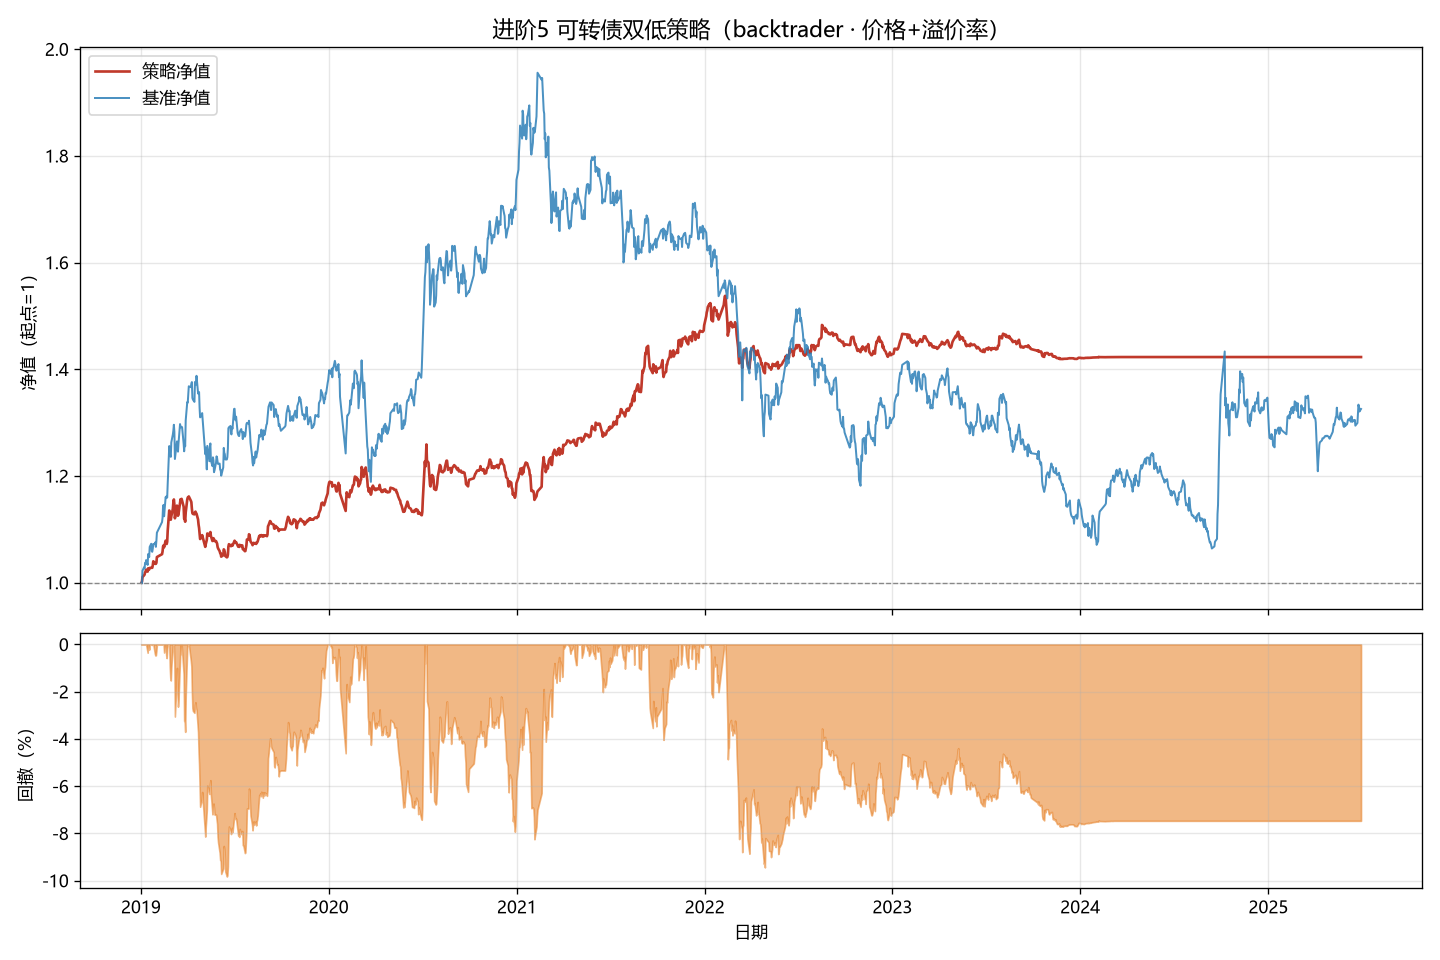
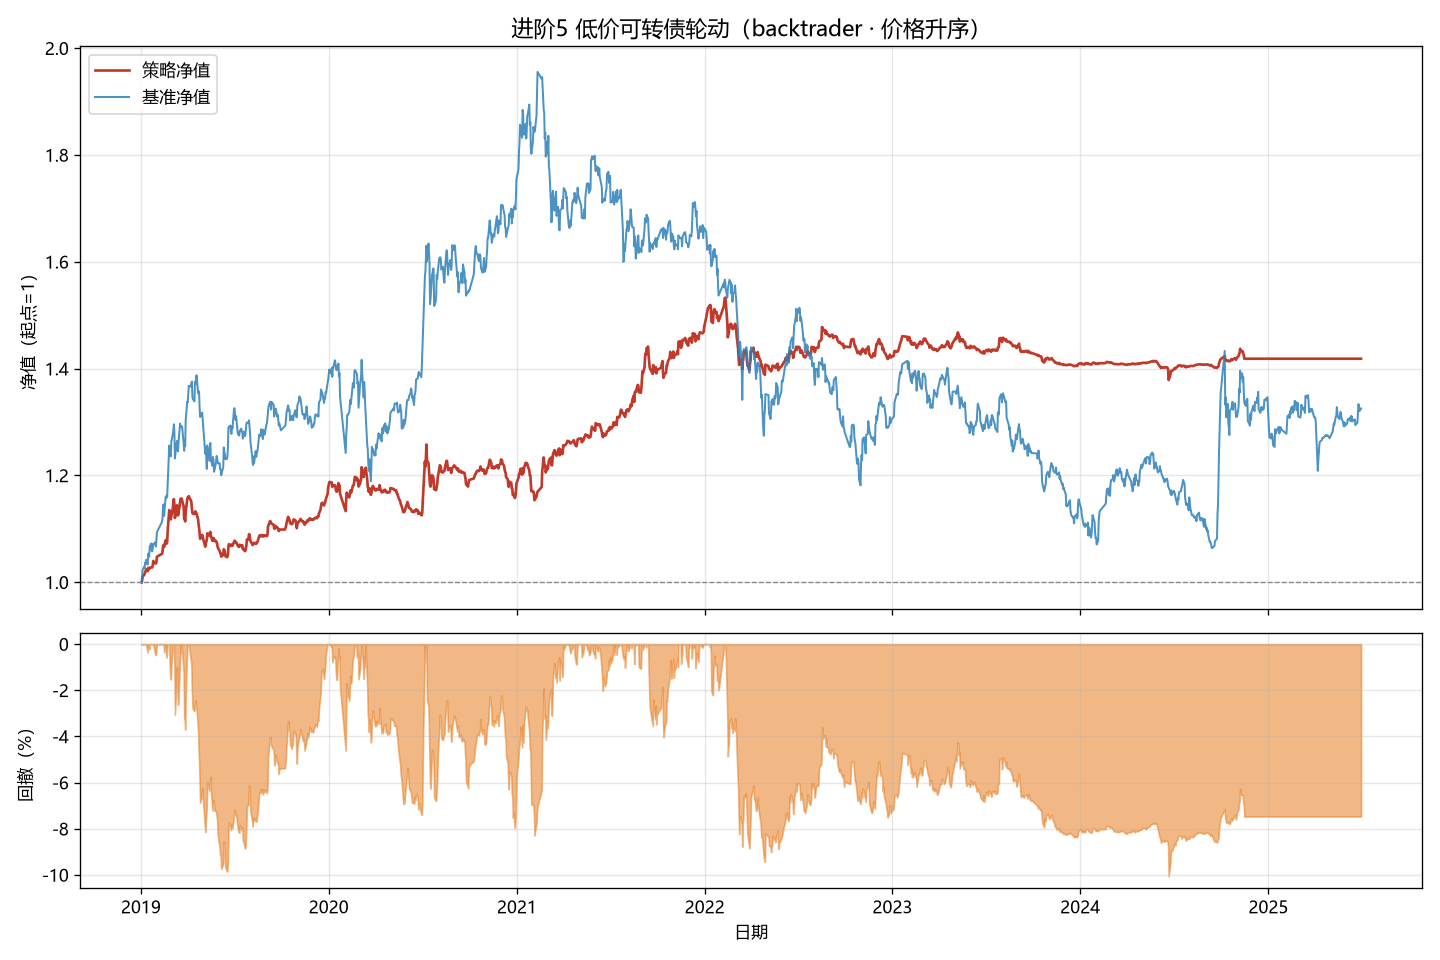
docs(4.1.1): bt_a05 按低价版重跑并同步实测结果
- results/logs/bt_a05_convertible_bond.log 与 results/bt_a05_result.png 更新为 v4.1.1 低价版重跑结果
  （累计 41.86% / 年化 5.76% / 最大回撤 -10.07% / 夏普 0.77 / 成交 182 笔）
- README 实测绩效表 a05 行更新为实测值，并去掉「待重跑」标注；补充净值形态解读
- docs/backtrader/advanced/05_convertible_bond.md 第五节换成实测结果 + 怎么读
- CHANGELOG 记录重跑结果

diff --git a/README.md b/README.md
@@ -127,7 +127,7 @@ Quant_Lab/
 
 以下数据由 `python strategies/backtrader/...` **实际运行**得到（初始资金 100 万，含佣金双向 0.03%、印花税仅卖出（**2023-08-28 前 0.1%、之后 0.05%**，v4.1.1 起按成交日切换）、滑点单边 0.02%），完整报告见 `results/logs/`，净值图见 `results/*.png`。
 
-> ⚠ v4.1.1 修改了部分策略口径（手续费按日期、调仓预算、a05 去掉未来函数），**下表数字是 v4.1.0 跑出的，尚未全部重跑**；其中 `bt_a05` 已明确失效。重跑请用 `python tools/run_all_backtrader.py`。
+> ⚠ v4.1.1 修改了部分策略口径（手续费按日期、调仓预算、`bt_a05` 去掉未来函数）。**`bt_a05` 已按新逻辑重跑（下表已更新为实测值）；其余策略仍是 v4.1.0 的数字，尚未重跑**——重跑请用 `python tools/run_all_backtrader.py`。
 
 | 策略 | 回测区间 | 累计收益 | 年化 | 最大回撤 | 夏普 | 同期基准 | 成交笔数 |
 |------|----------|---------:|-----:|---------:|-----:|---------:|---------:|
@@ -145,14 +145,14 @@ Quant_Lab/
 | `bt_a02` 行业轮动 | 2010-01 ~ 至今 | +79.72% | 3.70% | -26.23% | 0.44 | +23.26% | 408 |
 | `bt_a03` 多空对冲 | 2015-01 ~ 至今 | +17.66% | 1.45% | -33.00% | 0.20 | +19.66% | 3288 |
 | `bt_a04` 事件驱动 | 2018-01 ~ 至今 | +17.69% | 1.95% | -27.40% | 0.22 | +6.61% | 1281 |
-| `bt_a05` 低价可转债 | 2019-01 ~ 2025-06 | ⚠ 待重跑 | — | — | — | +32.55% | — |
+| `bt_a05` 低价可转债 | 2019-01 ~ 2025-06 | +41.86% | 5.76% | **-10.07%** | 0.77 | +32.55% | 182 |
 | `bt_a06` ETF 轮动 | 2014-01 ~ 至今 | +252.68% | 10.79% | -54.07% | 0.46 | +87.67% | 573 |
 | `bt_a07` 因子择时 | 2018-01 ~ 至今 | +208.81% | 14.32% | -32.64% | 0.69 | +6.61% | 1318 |
 | `bt_a08` ML 因子合成(GBDT) | 2016-01 ~ 至今 | +699.61% | 22.22% | -31.01% | 0.98 | +25.61% | 1922 |
 | `bt_a09` 短期超跌反弹 | 2015-01 ~ 至今 | +222.89% | 10.90% | **-66.75%** | 0.50 | +19.66% | 1809 |
 | `bt_a10` 情绪代理因子 | 2015-01 ~ 至今 | +176.65% | 9.40% | -49.17% | 0.46 | +19.66% | 2060 |
 
-`bt_a05` 的旧数字（回撤 -9.83%）来自 v4.1.0 的**静态双低版**，那一版把「当前」溢价率当历史值用（未来函数），已在 v4.1.1 改为只用历史价格的低价版，需重跑后才能引用。可转债「下有保底」的特性本身仍成立，只是不要再用旧数字。
+`bt_a05`（v4.1.1 低价版重跑）最大回撤 **-10.07%**、年化波动 **7.65%**，是 20 篇里风险特征最好的一篇：2019~2021 年明显跑输沪深300（转债涨得慢），2022 年之后沪深300 大跌时它几乎横住，最终反超——这就是「跌有限、涨也有限」的曲线。但要记住两点：因子已经从「真双低」退化为「低价」（历史溢价率不可得），候选池又来自「当前还存续」的转债（幸存者偏差）。所以这组数字只适合用来理解转债的风险收益形状，**不能**当成实盘预期。
 
 > ⚠ **请务必理解这些数字的边界（否则会得出错误结论）**：
 > 1. **幸存者偏差**：本地免费源只能取**当前**沪深300成分股，而它们本来就在这些年里"活下来了"。所以 `bt_s04` 小市值、`bt_s06` 双因子这类策略的收益被明显高估——**这不是策略真的这么强**；

diff --git a/docs/backtrader/advanced/05_convertible_bond.md b/docs/backtrader/advanced/05_convertible_bond.md
@@ -100,7 +100,7 @@ for d in self.tradables:
 - **T+0 未建模**：可转债实行 T+0，日内可反复交易；本策略按日线月度调仓，无法刻画日内回转。
 - **强赎条款未触发**：股价大涨触发强制赎回时，转债上涨空间被封顶，并非真"上不封顶"。
 
-真实双低的收益与回撤会与本回测有偏差，引用数字时要心里有数。
+这两点会让真实交易结果与本回测有偏差，引用数字时要心里有数。
 
 ## 四、与聚宽版的差异
 
@@ -115,9 +115,32 @@ for d in self.tradables:
 
 ## 五、回测结果
 
-> ⚠ **待重跑**：4.1.1 已把本策略从"静态双低的双低版"改成"低价版"（去掉未来函数）。
-> `results/logs/bt_a05_convertible_bond.log` 与 `results/bt_a05_result.png` 里的旧数字
-> （累计 42.28% / 回撤 -9.83%）由**旧版本**跑出，不代表当前代码，重跑后再更新本节。
+区间 **2019-01-02 ~ 2025-06-30（1573 个交易日）**，初始资金 100 万元，基准沪深300。数据来自
+`results/logs/bt_a05_convertible_bond.log`（**v4.1.1 低价版重跑**）。
+
+> 注意：本策略区间（2019~2025）与其他 4 篇（多从 2010/2013/2015 起）**不同**，请勿横向直接比较累计收益。
+
+| 指标 | 数值 |
+|------|------|
+| 累计收益率 | 41.86% |
+| 年化收益率 | 5.76% |
+| 基准累计收益率 | 32.55% |
+| 超额收益 | 9.32% |
+| 最大回撤 | -10.07% |
+| 夏普比率 | 0.77 |
+| 年化波动率 | 7.65% |
+| 日胜率 | 51.62% |
+| 总成交笔数 | 182 笔 |
+| 累计换手率 | 2403.74% |
+
+**怎么读这组数字：**
+
+- **抗跌**：最大回撤 -10.07%、年化波动 7.65%，是进阶篇里风险特征最好的一个（对照 `bt_a02` 行业轮动 -26%、`bt_a09` 反转 -67%）。这就是「低价转债有债底」的直接体现。
+- **收益一般**：年化 5.76%、累计 41.86%，跑赢基准（累计 +32.55%，超额 +9.32%），但绝对水平不高——低价的代价就是弹性和收益都被压住。
+- **净值形态**：2019~2021 年明显跑输沪深300（转债跟涨慢），2022 年之后沪深300 大跌时它几乎横住，最终反超。这是「跌有限、涨也有限」的典型曲线。
+- **换手偏高**：累计换手 2403.74%、182 笔成交。每月都要按现价重新排序，价格一变动就会产生大量「为凑整手」的小额调仓——可以试试加一个「排名没明显变化就不动」的缓冲带，观察成本对收益的影响。
+
+> 提醒：可用样本只有 11 只转债，且候选池来自「当前还存续」的转债（幸存者偏差），所以这组数字只适合用来理解风险收益形状，不能当成实盘预期。
 
 ## 六、改进方向（思考题）
 

diff --git a/CHANGELOG.md b/CHANGELOG.md
@@ -40,7 +40,7 @@
 
 ### 四、README / 文档
 
-- README：顶部更新提示、进阶篇表格（a05 改名）、实测绩效表（标注 `bt_a05` 待重跑）、
+- README：顶部更新提示、进阶篇表格（a05 改名）、实测绩效表（`bt_a05` 已重跑为新数字，其余标注待重跑）、
   边界说明（把「无未来函数」改成「交易信号层面无未来函数 + 数据层面已知偏差」）、更新日志全部同步到 v4.1.1。
 - `docs/backtrader/advanced/05_convertible_bond.md`：按「低价版」重写核心思路 / 算法结构 / 差异表 / 回测结果。
 
@@ -49,6 +49,8 @@
 - 45 个 py 文件 AST 语法检查通过；
 - 用合成数据跑通 `run_strategy` 端到端（费用 / 净值 / 绩效 / 调仓）；
 - 单元验证：`classify('sz000001') == 'stock'`、`asof` 逐列填充、印花税 0.1% / 0.05% 切换、`round_lot(-150) == -100`。
+- `bt_a05` 已按新逻辑重跑：累计 **41.86%** / 年化 5.76% / 最大回撤 **-10.07%** / 夏普 0.77，
+  区间 2019-01-02 ~ 2025-06-30，`results/logs/bt_a05_convertible_bond.log` 与结果图已同步更新（其余策略数字待重跑）。
 
 ---
 
